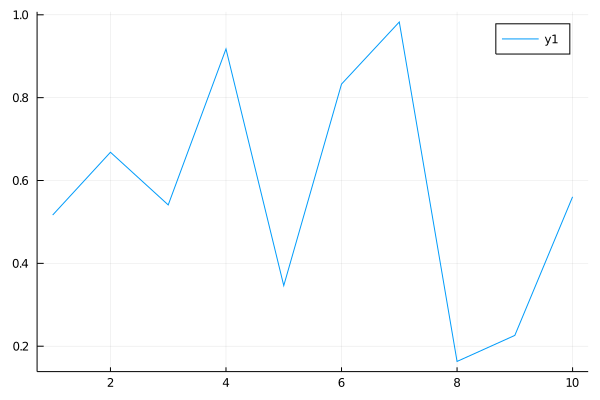
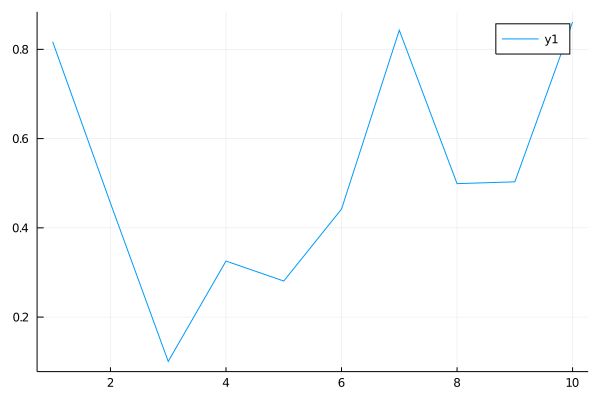
Update posts

diff --git a/docs/posts/2021-02-03-forcats-for-categorical-data/index.html b/docs/posts/2021-02-03-forcats-for-categorical-data/index.html
@@ -24,9 +24,19 @@
         <script>hljs.initHighlightingOnLoad();</script>
         <link href="forcats_files/Dotto-0.1.0/site.css" rel="stylesheet" />
         <script src="forcats_files/Dotto-0.1.0/Dotto.js"></script>
-        <link rel="shortcut icon" href="../../resources/images/Category_icon.png">
+        <link rel="shortcut icon" href="../../resources/images/datamotto_logo.jpg">
         <script src="forcats_files/navigation-1.1/tabsets.js"></script>
     
+<!-- Global site tag (gtag.js) - Google Analytics -->
+<script async src="https://www.googletagmanager.com/gtag/js?id=257470850"></script>
+<script>
+  window.dataLayer = window.dataLayer || [];
+  function gtag(){dataLayer.push(arguments);}
+  gtag('js', new Date());
+
+  gtag('config', 'GA_MEASUREMENT_ID');
+</script>
+
 </head>
 
 <body>
@@ -172,7 +182,7 @@ St
 <!-------------------------------------------------->
 <li class="nav-item dot-li">
 <a class="dot-li nav-link active dot-li-R dm-dot-title"> R </a>
-<div class="dm-dot-content dot-scroll-400 active">
+<div class="dm-dot-content dot-scroll-800 active">
 <div class="sourceCode" id="cb1"><pre class="sourceCode r"><code class="sourceCode r"><span id="cb1-1"><a href="#cb1-1" aria-hidden="true" tabindex="-1"></a><span class="fu">library</span>(dplyr)</span>
 <span id="cb1-2"><a href="#cb1-2" aria-hidden="true" tabindex="-1"></a><span class="fu">library</span>(ggplot2)</span>
 <span id="cb1-3"><a href="#cb1-3" aria-hidden="true" tabindex="-1"></a><span class="fu">theme_set</span>(<span class="fu">theme_bw</span>())  <span class="co"># pre-set the bw theme.</span></span>
@@ -193,17 +203,15 @@ St
 <span id="cb1-18"><a href="#cb1-18" aria-hidden="true" tabindex="-1"></a></span>
 <span id="cb1-19"><a href="#cb1-19" aria-hidden="true" tabindex="-1"></a><span class="fu">plot</span>(gg)</span></code></pre></div>
 <pre><code>## `geom_smooth()` using formula &#39;y ~ x&#39;</code></pre>
-<pre><code>## Warning: Removed 15 rows containing non-finite values
-## (stat_smooth).</code></pre>
-<pre><code>## Warning: Removed 15 rows containing missing values
-## (geom_point).</code></pre>
+<pre><code>## Warning: Removed 15 rows containing non-finite values (stat_smooth).</code></pre>
+<pre><code>## Warning: Removed 15 rows containing missing values (geom_point).</code></pre>
 <img src="forcats_files/figure-html/mygg-1.png" width="576" />
 </div>
 </li>
 <!-------------------------------------------------->
 <li class="nav-item dot-li">
 <a class="dot-li nav-link  dot-li-python dm-dot-title"> Python </a>
-<div class="dm-dot-content dot-scroll-400">
+<div class="dm-dot-content dot-scroll-800">
 <div class="sourceCode" id="cb5"><pre class="sourceCode python"><code class="sourceCode python"><span id="cb5-1"><a href="#cb5-1" aria-hidden="true" tabindex="-1"></a><span class="im">import</span> matplotlib.pyplot <span class="im">as</span> plt</span>
 <span id="cb5-2"><a href="#cb5-2" aria-hidden="true" tabindex="-1"></a><span class="im">import</span> numpy <span class="im">as</span> np</span>
 <span id="cb5-3"><a href="#cb5-3" aria-hidden="true" tabindex="-1"></a>t <span class="op">=</span> <span class="dv">1</span> <span class="op">+</span> np.arange(<span class="dv">0</span>, <span class="dv">2</span>, <span class="fl">0.01</span>)</span>
@@ -216,20 +224,20 @@ St
 <!-------------------------------------------------->
 <li class="nav-item dot-li">
 <a class="dot-li nav-link  dot-li-julia dm-dot-title"> Julia </a>
-<div class="dm-dot-content dot-scroll-400">
+<div class="dm-dot-content dot-scroll-800">
 <div class="sourceCode" id="cb6"><pre class="sourceCode julia"><code class="sourceCode julia"><span id="cb6-1"><a href="#cb6-1" aria-hidden="true" tabindex="-1"></a><span class="kw">using</span> Plots</span>
 <span id="cb6-2"><a href="#cb6-2" aria-hidden="true" tabindex="-1"></a>x <span class="op">=</span> <span class="fl">1</span><span class="op">:</span><span class="fl">10</span><span class="op">;</span> y <span class="op">=</span> rand(<span class="fl">10</span>)<span class="op">;</span> <span class="co"># These are the plotting data</span></span></code></pre></div>
 <pre><code>## 10-element Array{Float64,1}:
-##  0.5166854799542213
-##  0.6682172494279992
-##  0.5410703024170449
-##  0.9176341544277451
-##  0.3462529915272643
-##  0.8327892284343454
-##  0.9826565727018484
-##  0.16325878588874332
-##  0.2261181565514483
-##  0.5606437894366896</code></pre>
+##  0.8169207891732451
+##  0.4554403289673923
+##  0.10066177851799529
+##  0.3255499283980039
+##  0.28078534813284595
+##  0.4420977733535143
+##  0.8428440319352792
+##  0.4990561910185958
+##  0.5031203550708219
+##  0.8613001239062619</code></pre>
 <div class="sourceCode" id="cb8"><pre class="sourceCode julia"><code class="sourceCode julia"><span id="cb8-1"><a href="#cb8-1" aria-hidden="true" tabindex="-1"></a>plot(x<span class="op">,</span> y)</span></code></pre></div>
 <img src="forcats_files/figure-html/myjulia-J1.png" width="300" />
 </div>
@@ -237,7 +245,7 @@ St
 <!-------------------------------------------------->
 <li class="nav-item dot-li">
 <a class="dot-li nav-link  dot-li-sql dm-dot-title"> SQL </a>
-<div class="dm-dot-content dot-scroll-400">
+<div class="dm-dot-content dot-scroll-800">
 <div class="sourceCode" id="cb9"><pre class="sourceCode sql"><code class="sourceCode sql"><span id="cb9-1"><a href="#cb9-1" aria-hidden="true" tabindex="-1"></a><span class="kw">SELECT</span> <span class="op">*</span> <span class="kw">FROM</span> mtcars</span></code></pre></div>
 <div class="knitsql-table">
 <table>
@@ -396,7 +404,7 @@ St
 <!-------------------------------------------------->
 <li class="nav-item dot-li">
 <a class="dot-li nav-link  dot-li-bash dm-dot-title"> bash </a>
-<div class="dm-dot-content dot-scroll-400">
+<div class="dm-dot-content dot-scroll-800">
 <div class="sourceCode" id="cb10"><pre class="sourceCode bash"><code class="sourceCode bash"><span id="cb10-1"><a href="#cb10-1" aria-hidden="true" tabindex="-1"></a><span class="bu">echo</span> <span class="st">&quot;Hello Bash!&quot;</span></span></code></pre></div>
 <pre><code>## Hello Bash!</code></pre>
 </div>
@@ -404,7 +412,7 @@ St
 <!-------------------------------------------------->
 <li class="nav-item dot-li">
 <a class="dot-li nav-link  dot-li-js dm-dot-title"> JS </a>
-<div class="dm-dot-content dot-scroll-400">
+<div class="dm-dot-content dot-scroll-800">
 <div class="sourceCode" id="cb12"><pre class="sourceCode js"><code class="sourceCode javascript"><span id="cb12-1"><a href="#cb12-1" aria-hidden="true" tabindex="-1"></a><span class="st">&quot;Hello&quot;</span></span></code></pre></div>
 <script type="text/javascript">
 "Hello"
@@ -414,7 +422,7 @@ St
 <!-------------------------------------------------->
 <li class="nav-item dot-li">
 <a class="dot-li nav-link  dot-li-node dm-dot-title"> node </a>
-<div class="dm-dot-content dot-scroll-400">
+<div class="dm-dot-content dot-scroll-800">
 <div class="sourceCode" id="cb13"><pre class="sourceCode javascript"><code class="sourceCode javascript"><span id="cb13-1"><a href="#cb13-1" aria-hidden="true" tabindex="-1"></a><span class="bu">console</span><span class="op">.</span><span class="fu">log</span>(<span class="dv">1</span> <span class="op">+</span> <span class="dv">2</span> <span class="op">+</span> <span class="dv">3</span>)</span></code></pre></div>
 <pre><code>## 6</code></pre>
 </div>
@@ -438,7 +446,7 @@ St
 <!-------------------------------------------------->
 <li class="nav-item dot-li">
 <a class="dot-li nav-link  dot-li-Rcpp dm-dot-title"> Rcpp </a>
-<div class="dm-dot-content dot-scroll-400 ">
+<div class="dm-dot-content dot-scroll-800 ">
 
 <div class="sourceCode" id="cb15"><pre class="sourceCode r"><code class="sourceCode r"><span id="cb15-1"><a href="#cb15-1" aria-hidden="true" tabindex="-1"></a><span class="fu">library</span>(Rcpp)</span></code></pre></div>
 <div class="sourceCode" id="cb16"><pre class="sourceCode cpp"><code class="sourceCode cpp"><span id="cb16-1"><a href="#cb16-1" aria-hidden="true" tabindex="-1"></a><span class="pp">#include </span><span class="im">&lt;Rcpp.h&gt;</span></span>
@@ -453,7 +461,7 @@ St
 <!-------------------------------------------------->
 <li class="nav-item dot-li">
 <a class="dot-li nav-link  dot-li-stan dm-dot-title"> stan </a>
-<div class="dm-dot-content dot-scroll-400 ">
+<div class="dm-dot-content dot-scroll-800 ">
 
 <pre class="stan"><code>parameters {
   real y[2];
@@ -467,8 +475,8 @@ model {
 <pre><code>## 
 ## SAMPLING FOR MODEL &#39;6c400a2ac89dae0e85da9f7673dc5d1c&#39; NOW (CHAIN 1).
 ## Chain 1: 
-## Chain 1: Gradient evaluation took 1.1e-05 seconds
-## Chain 1: 1000 transitions using 10 leapfrog steps per transition would take 0.11 seconds.
+## Chain 1: Gradient evaluation took 1e-05 seconds
+## Chain 1: 1000 transitions using 10 leapfrog steps per transition would take 0.1 seconds.
 ## Chain 1: Adjust your expectations accordingly!
 ## Chain 1: 
 ## Chain 1: 
@@ -485,15 +493,15 @@ model {
 ## Chain 1: Iteration: 1800 / 2000 [ 90%]  (Sampling)
 ## Chain 1: Iteration: 2000 / 2000 [100%]  (Sampling)
 ## Chain 1: 
-## Chain 1:  Elapsed Time: 0.017084 seconds (Warm-up)
-## Chain 1:                0.012107 seconds (Sampling)
-## Chain 1:                0.029191 seconds (Total)
+## Chain 1:  Elapsed Time: 0.010922 seconds (Warm-up)
+## Chain 1:                0.008893 seconds (Sampling)
+## Chain 1:                0.019815 seconds (Total)
 ## Chain 1: 
 ## 
 ## SAMPLING FOR MODEL &#39;6c400a2ac89dae0e85da9f7673dc5d1c&#39; NOW (CHAIN 2).
 ## Chain 2: 
-## Chain 2: Gradient evaluation took 8e-06 seconds
-## Chain 2: 1000 transitions using 10 leapfrog steps per transition would take 0.08 seconds.
+## Chain 2: Gradient evaluation took 6e-06 seconds
+## Chain 2: 1000 transitions using 10 leapfrog steps per transition would take 0.06 seconds.
 ## Chain 2: Adjust your expectations accordingly!
 ## Chain 2: 
 ## Chain 2: 
@@ -510,15 +518,15 @@ model {
 ## Chain 2: Iteration: 1800 / 2000 [ 90%]  (Sampling)
 ## Chain 2: Iteration: 2000 / 2000 [100%]  (Sampling)
 ## Chain 2: 
-## Chain 2:  Elapsed Time: 0.010879 seconds (Warm-up)
-## Chain 2:                0.011376 seconds (Sampling)
-## Chain 2:                0.022255 seconds (Total)
+## Chain 2:  Elapsed Time: 0.011644 seconds (Warm-up)
+## Chain 2:                0.013004 seconds (Sampling)
+## Chain 2:                0.024648 seconds (Total)
 ## Chain 2: 
 ## 
 ## SAMPLING FOR MODEL &#39;6c400a2ac89dae0e85da9f7673dc5d1c&#39; NOW (CHAIN 3).
 ## Chain 3: 
-## Chain 3: Gradient evaluation took 8e-06 seconds
-## Chain 3: 1000 transitions using 10 leapfrog steps per transition would take 0.08 seconds.
+## Chain 3: Gradient evaluation took 3.1e-05 seconds
+## Chain 3: 1000 transitions using 10 leapfrog steps per transition would take 0.31 seconds.
 ## Chain 3: Adjust your expectations accordingly!
 ## Chain 3: 
 ## Chain 3: 
@@ -535,15 +543,15 @@ model {
 ## Chain 3: Iteration: 1800 / 2000 [ 90%]  (Sampling)
 ## Chain 3: Iteration: 2000 / 2000 [100%]  (Sampling)
 ## Chain 3: 
-## Chain 3:  Elapsed Time: 0.010534 seconds (Warm-up)
-## Chain 3:                0.009554 seconds (Sampling)
-## Chain 3:                0.020088 seconds (Total)
+## Chain 3:  Elapsed Time: 0.011801 seconds (Warm-up)
+## Chain 3:                0.010541 seconds (Sampling)
+## Chain 3:                0.022342 seconds (Total)
 ## Chain 3: 
 ## 
 ## SAMPLING FOR MODEL &#39;6c400a2ac89dae0e85da9f7673dc5d1c&#39; NOW (CHAIN 4).
 ## Chain 4: 
-## Chain 4: Gradient evaluation took 6e-06 seconds
-## Chain 4: 1000 transitions using 10 leapfrog steps per transition would take 0.06 seconds.
+## Chain 4: Gradient evaluation took 5e-06 seconds
+## Chain 4: 1000 transitions using 10 leapfrog steps per transition would take 0.05 seconds.
 ## Chain 4: Adjust your expectations accordingly!
 ## Chain 4: 
 ## Chain 4: 
@@ -560,25 +568,21 @@ model {
 ## Chain 4: Iteration: 1800 / 2000 [ 90%]  (Sampling)
 ## Chain 4: Iteration: 2000 / 2000 [100%]  (Sampling)
 ## Chain 4: 
-## Chain 4:  Elapsed Time: 0.011409 seconds (Warm-up)
-## Chain 4:                0.010347 seconds (Sampling)
-## Chain 4:                0.021756 seconds (Total)
+## Chain 4:  Elapsed Time: 0.011833 seconds (Warm-up)
+## Chain 4:                0.009764 seconds (Sampling)
+## Chain 4:                0.021597 seconds (Total)
 ## Chain 4:</code></pre>
 <div class="sourceCode" id="cb21"><pre class="sourceCode r"><code class="sourceCode r"><span id="cb21-1"><a href="#cb21-1" aria-hidden="true" tabindex="-1"></a>fit</span></code></pre></div>
 <pre><code>## Inference for Stan model: 6c400a2ac89dae0e85da9f7673dc5d1c.
 ## 4 chains, each with iter=2000; warmup=1000; thin=1; 
 ## post-warmup draws per chain=1000, total post-warmup draws=4000.
 ## 
-##       mean se_mean   sd  2.5%   25%   50%   75% 97.5% n_eff
-## y[1]  0.02    0.02 1.02 -2.07 -0.62  0.04  0.69  2.04  2176
-## y[2]  0.12    0.06 2.69 -5.21 -1.33  0.05  1.46  5.92  1963
-## lp__ -1.49    0.03 1.21 -4.77 -2.01 -1.18 -0.60 -0.11  1301
-##      Rhat
-## y[1]    1
-## y[2]    1
-## lp__    1
+##       mean se_mean   sd  2.5%   25%   50%   75% 97.5% n_eff Rhat
+## y[1] -0.01    0.02 1.01 -1.98 -0.69  0.01  0.67  1.90  1812    1
+## y[2] -0.13    0.07 3.02 -7.15 -1.49 -0.03  1.35  6.18  1682    1
+## lp__ -1.57    0.04 1.29 -4.93 -2.14 -1.24 -0.62 -0.12  1053    1
 ## 
-## Samples were drawn using NUTS(diag_e) at Tue Mar 16 21:33:09 2021.
+## Samples were drawn using NUTS(diag_e) at Tue Mar 16 23:39:31 2021.
 ## For each parameter, n_eff is a crude measure of effective sample size,
 ## and Rhat is the potential scale reduction factor on split chains (at 
 ## convergence, Rhat=1).</code></pre>
@@ -594,6 +598,8 @@ model {
 
 <!-- Body Footer ----------------------------------->
 
+    <section class="mt-5 pt-5">
+    <div class="container">
     <div id="disqus_thread"></div>
     <script>
     var disqus_config = function () {
@@ -610,6 +616,8 @@ model {
 </script>
 <noscript>Please enable JavaScript to view the <a href="https://disqus.com/?ref_noscript">comments powered by Disqus.</a></noscript>
 <script id="dsq-count-scr" src="//datamotto-com.disqus.com/count.js" async></script>
+</div>
+</section>
   
 <footer id="dm-footer" class="pt-3 pb-3">
 	<div class="container">

diff --git a/docs/About.html b/docs/About.html
@@ -185,7 +185,7 @@
             "twitter_site": ["@DataMotto"],
             "file_name": ["styling-visualization-with-bootstrap"],
             "dir_name": ["2021-03-16-styling-visualization-with-bootstrap"],
-            "cover_image_url": ["resources/images/default_dotto.jpg"],
+            "cover_image_url": ["https://miro.medium.com/max/700/1*f8jKCd8c6dctd1QqO2P_sA.png"],
             "tech": ["r", "python"],
             "link": ["./posts/2021-03-16-styling-visualization-with-bootstrap/index.html"]
           }

diff --git a/docs/Contributing.html b/docs/Contributing.html
@@ -185,7 +185,7 @@
             "twitter_site": ["@DataMotto"],
             "file_name": ["styling-visualization-with-bootstrap"],
             "dir_name": ["2021-03-16-styling-visualization-with-bootstrap"],
-            "cover_image_url": ["resources/images/default_dotto.jpg"],
+            "cover_image_url": ["https://miro.medium.com/max/700/1*f8jKCd8c6dctd1QqO2P_sA.png"],
             "tech": ["r", "python"],
             "link": ["./posts/2021-03-16-styling-visualization-with-bootstrap/index.html"]
           }

diff --git a/docs/posts/2021-02-03-forcats-for-categorical-data/forcats_files/Dotto-0.1.0/site.css b/docs/posts/2021-02-03-forcats-for-categorical-data/forcats_files/Dotto-0.1.0/site.css
@@ -612,7 +612,7 @@ button.btn.gradient-button.text-white.rounded-pill.dropdown-toggle {
 }
 
 section#dm-post {
-    min-height: 600px;
+    min-height: 1000px;
 }
 
 #dotto-content h2 {
@@ -703,8 +703,8 @@ button#get-started {
 }
 
 
-.dot-scroll-400 {
-  max-height: 400px;
+.dot-scroll-800 {
+  max-height: 800px;
   overflow-y: auto;
   background-color: inherit;
 }

diff --git a/docs/site_libs/Index_page-0.1.0/site.css b/docs/site_libs/Index_page-0.1.0/site.css
@@ -612,7 +612,7 @@ button.btn.gradient-button.text-white.rounded-pill.dropdown-toggle {
 }
 
 section#dm-post {
-    min-height: 600px;
+    min-height: 1000px;
 }
 
 #dotto-content h2 {
@@ -703,8 +703,8 @@ button#get-started {
 }
 
 
-.dot-scroll-400 {
-  max-height: 400px;
+.dot-scroll-800 {
+  max-height: 800px;
   overflow-y: auto;
   background-color: inherit;
 }
